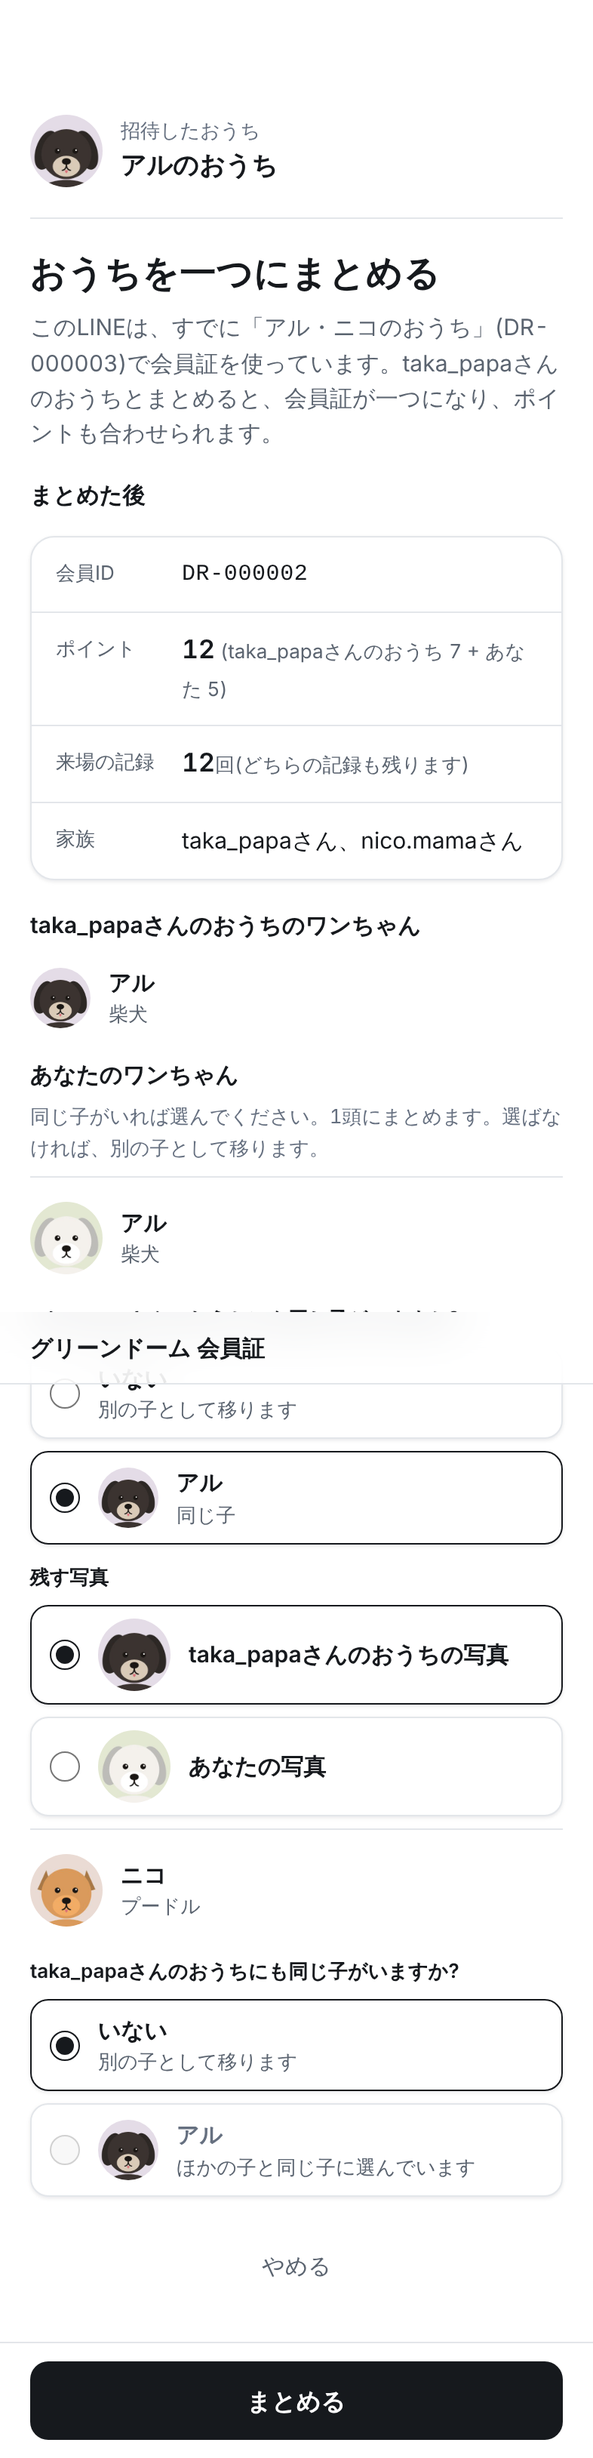
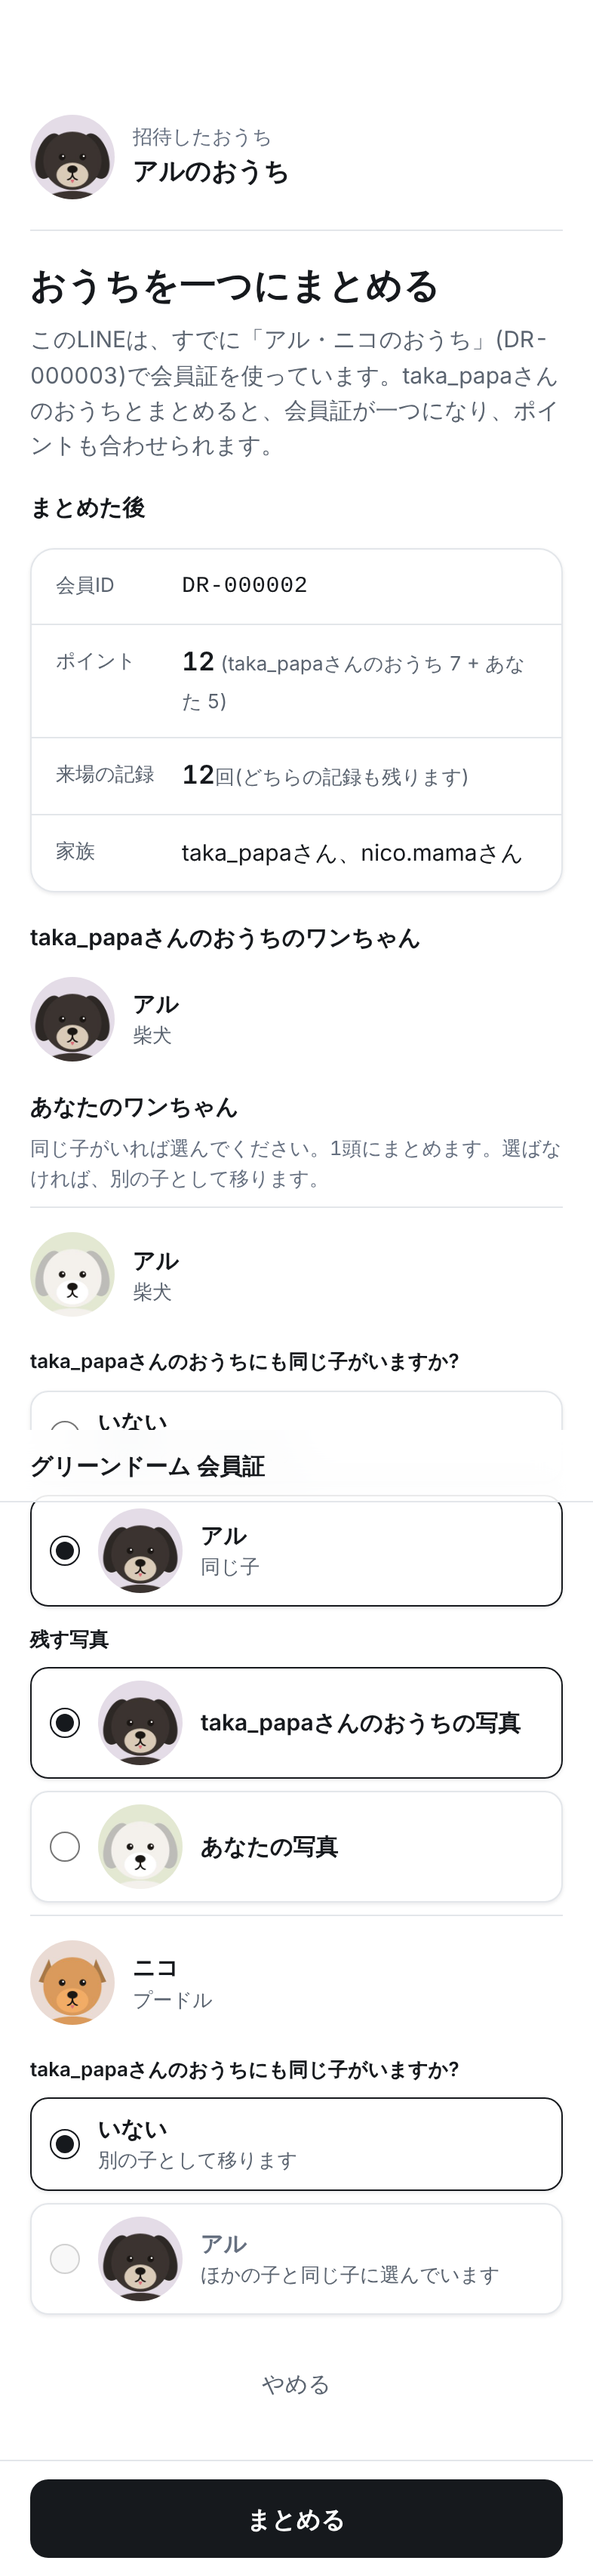
ポイントの数字の大きさを直し、写真のない子の絵と「+1ポイント」のハンコを整える。お客さん向けのマニュアルの写真を撮り直す
Claude-Session: https://claude.ai/code/session_01CeXocUtpkzvyuQwQbmjHXB

diff --git a/apps/liff/src/styles.css b/apps/liff/src/styles.css
@@ -238,7 +238,7 @@ a { color: var(--accent-text); }
 .av-ears path { fill: rgba(0, 0, 0, .14); }
 /* ワンちゃんの変更画面の上の大きな写真(幅いっぱい、4:3、角丸 16) */
 .photo-hero { display: flex; flex-direction: column; gap: var(--sp-3); }
-.dog-hero { display: block; width: 100%; max-width: none; height: auto; aspect-ratio: 4 / 3; object-fit: cover; border-radius: var(--radius-xl); background: var(--surface-sunk); }
+.dog-hero, .dog-hero-sk { display: block; width: 100%; max-width: none; height: auto; aspect-ratio: 4 / 3; object-fit: cover; border-radius: var(--radius-xl); background: var(--surface-sunk); }
 .photo-hero-acts { display: flex; flex-direction: column; align-items: center; gap: 6px; }
 .photo-hero-acts label.up { width: auto; min-height: 44px; padding: 0 var(--sp-5); font-size: var(--fs-14); cursor: pointer; }
 .photo-hero-acts label.up:has(+ input:focus-visible) { outline: 2px solid var(--focus-color); outline-offset: 2px; }
@@ -319,7 +319,7 @@ a { color: var(--accent-text); }
 .mc-id { font-size: var(--fs-13); color: var(--mc-sub); line-height: 1.3; }
 .mc-points { display: flex; align-items: baseline; gap: var(--sp-1); line-height: 1.1; white-space: nowrap; }
 .mc-points b { font-size: var(--fs-24); font-weight: var(--fw-strong); font-variant-numeric: tabular-nums; }
-.mc-points span { font-size: var(--fs-12); color: var(--mc-sub); }
+.mc-points > span { font-size: var(--fs-12); color: var(--mc-sub); }
 @media (hover: hover) {
   .mc-change:hover { background: color-mix(in srgb, var(--mc-text) 14%, transparent); }
 }
@@ -832,5 +832,5 @@ html.has-action-bar .toast-region { bottom: calc(var(--action-bar-h, 80px) + var
 /* チェックイン完了の「+1ポイント」の横に押すハンコ */
 .done-points { display: inline-flex; align-items: center; gap: 6px; }
 .done-pon { position: relative; display: inline-block; width: 22px; height: 22px; flex: none; }
-.done-pon .pon-mark { display: block; width: 22px; height: 22px; fill: var(--ink); transform: rotate(-8deg); }
+.done-pon .pon-mark { display: block; width: 22px; height: 22px; fill: var(--stamp-today); transform: rotate(-8deg); }
 .done-pon .paw-ink { inset: -2px; }

diff --git a/apps/liff/src/components/DogAvatar.tsx b/apps/liff/src/components/DogAvatar.tsx
@@ -27,8 +27,8 @@ export function DogPlaceholder({ name, breedName, size }: { name: string; breedN
       </clipPath>
       <circle cx="50" cy="50" r="50" fill={placeholderColor(breedName, name)} />
       <g clipPath={`url(#${clip})`} className="av-ears" aria-hidden="true">
-        <path d={EAR} />
-        <path d={EAR} transform="translate(100 0) scale(-1 1)" />
+        <path d={EAR} transform="translate(-7 2)" />
+        <path d={EAR} transform="translate(107 2) scale(-1 1)" />
       </g>
       <text x="50" y="50" dy=".36em" textAnchor="middle" fontSize="44" fontWeight="600">
         {initial}
@@ -56,7 +56,7 @@ export function DogAvatar({ name, breedName, url, previewUrl, size = 56 }: Props
 
 /**
  * ワンちゃんの変更画面の上に出す、大きな写真(幅いっぱい、縦横比 4:3、角丸 16)。
- * 写真がなければ、犬種の色の面に大きな頭文字と垂れ耳の絵。
+ * 写真がなければ、犬種の色の面に大きな頭文字。
  */
 export function DogHero({
   name,
@@ -86,10 +86,6 @@ export function DogHero({
   return (
     <svg className="dog-hero dog-hero-ph" viewBox="0 0 400 300" role="img" aria-label={`${name}(写真なし)`}>
       <rect width="400" height="300" fill={placeholderColor(breedName, name)} />
-      <g className="av-ears" aria-hidden="true" transform="translate(80 30) scale(2.4)">
-        <path d={EAR} />
-        <path d={EAR} transform="translate(100 0) scale(-1 1)" />
-      </g>
       <text x="200" y="150" dy=".36em" textAnchor="middle" fontSize="120" fontWeight="600">
         {nameInitial(name)}
       </text>

diff --git a/e2e/manual-shots.spec.ts b/e2e/manual-shots.spec.ts
@@ -189,6 +189,8 @@ test('お客さん: ワンちゃんの変更・おやすみ・プロフィール
   if (!(await more.evaluate((d: HTMLDetailsElement) => d.open))) await more.locator('summary').click();
   // 体重・相性・予防注射の年は任意。入れたところを写す(保存はしない)
   await page.getByLabel('体重').fill('6.4');
+  // 下に貼り付く保存の帯に隠れないよう、画面の中ほどまでスクロールしてから選ぶ
+  await more.getByRole('radio', { name: '得意' }).evaluate((el) => el.scrollIntoView({ block: 'center' }));
   await more.getByRole('radio', { name: '得意' }).check({ force: true });
   await page.getByLabel('狂犬病の予防注射').selectOption({ index: 1 });
   await scrollToTop(page.getByText('生まれた年月').first());

diff --git a/apps/liff/src/pages/skeletons.tsx b/apps/liff/src/pages/skeletons.tsx
@@ -227,7 +227,7 @@ export function DogFormSkeleton({ edit = true }: { edit?: boolean }) {
       {/* 変更画面は、上に大きな写真(4:3)と「写真を変える」 */}
       {edit ? (
         <div className="photo-hero">
-          <Skeleton className="dog-hero" height="auto" radius={16} />
+          <Skeleton className="dog-hero-sk" height="auto" radius={16} />
           <div className="photo-hero-acts">
             <Skeleton width={150} height={44} radius={12} />
           </div>

diff --git a/e2e/manual-helpers.ts b/e2e/manual-helpers.ts
@@ -185,6 +185,8 @@ export async function phoneContext(browser: Browser): Promise<BrowserContext> {
     userAgent:
       'Mozilla/5.0 (iPhone; CPU iPhone OS 18_0 like Mac OS X) AppleWebKit/605.1.15 (KHTML, like Gecko) Mobile/15E148 Safari/604.1 Line/14.0.0',
     locale: 'ja-JP',
+    // 写真が動きの途中にならないよう、動きを減らす設定で撮る
+    reducedMotion: 'reduce',
     timezoneId: 'Asia/Tokyo',
   });
   await useManualClock(context);

diff --git a/docs/design.md b/docs/design.md
@@ -105,7 +105,7 @@
 - チェックイン完了(L-06): 白いページ。上に小さく accent の点(ゆっくり明滅)と「チェックイン完了」「10月28日(水)」。その下に時計 40px tabular 600。時計の下に 3px の細いバーが左から右へ流れ続ける(スクリーンショットと見分けるため)。犬のアバター 72 と名前 20/600。「2頭 · DR-000001 · +1ポイント」を text-secondary の一行で。無料券を使った日は warning-50 の大きなブロックに「無料券を使用」(20/600)。下に数値ブロック(いまのポイント・使える無料券)。戻るのは ghost ボタン。
 - 登録の流れ(L-01〜L-04): 上に 3 本の細いバーで進み具合。見出し 20/600、説明 15。利用規約は行(タイトル + 右に「›」)で、開くと本文。写真は「写真を選ぶ」の副ボタン(破線にしない)。「この子を削除」は右上の ghost(danger の文字)。
 - 犬の一覧(L-09 ワンちゃん): 行(アバター 64、行の高さ 88、名前 17/600、犬種・サイズ、右に「›」)。「ワンちゃんを追加」は副ボタン。「おやすみ中のワンちゃん(1)」は一番下に 13px text-tertiary の小さな折りたたみ(ふだんは閉じる。開くと行は text-tertiary、アバター 40)。
-- 犬の変更(L-09 の変更画面): 一番上に大きな写真(幅いっぱい、縦横比 4:3、角丸 16。写真がなければ犬種の色の面に大きな頭文字と垂れ耳の絵)、その下に副ボタン「写真を変える」。見出しは名前 24/600、その下に 14px text-secondary で「一緒に来た回数 12回・最後に来た日 10月28日」(13章)。名前・性別・生まれた年月・体重・相性・予防注射の年。保存は主ボタンの帯(この画面だけはページの流れの中で下に貼り付く帯)。帯よりも下、スクロールしきった所に、見出しも区切り線もなく 13px text-tertiary の文字ボタン「この子の登録をおやすみする」(danger の色を付けない)。押したときの確認は「○○の登録をおやすみします。来場の記録はそのまま残り、いつでも戻せます。」ボタンは「おやすみする」「やめる」。
+- 犬の変更(L-09 の変更画面): 一番上に大きな写真(幅いっぱい、縦横比 4:3、角丸 16。写真がなければ犬種の色の面に大きな頭文字)、その下に副ボタン「写真を変える」。見出しは名前 24/600、その下に 14px text-secondary で「一緒に来た回数 12回・最後に来た日 10月28日」(13章)。名前・性別・生まれた年月・体重・相性・予防注射の年。保存は主ボタンの帯(この画面だけはページの流れの中で下に貼り付く帯)。帯よりも下、スクロールしきった所に、見出しも区切り線もなく 13px text-tertiary の文字ボタン「この子の登録をおやすみする」(danger の色を付けない)。押したときの確認は「○○の登録をおやすみします。来場の記録はそのまま残り、いつでも戻せます。」ボタンは「おやすみする」「やめる」。
 - 家族を招待(L-11): QR は白い枠(1px border、padding 16)の中。主ボタン「LINEで招待を送る」、副ボタン「QRコードを表示」。
 
 ## 6. 受付・管理画面
@@ -188,7 +188,7 @@
 - 前回この端末で見たときより増えた 1 個は、ほかの最後より 90ms 遅れて、大きめに押す(2.1 → 0.88 → 1.03 → 1、320ms)。押し付けた瞬間に、肉球のまわりに ink の 12% の円が 1 回広がって消え(インクのにじみ)、スタンプのパネルが 1px 沈んで戻る。対応する端末では `navigator.vibrate(12)`。
 - 同じ日に同じ数で開き直したときは「ポポポン」しない(1 日 1 回。端末に「日付:数」を覚える。覚えられない端末では毎回)。増えた 1 個があるときは押す。
 - 10 個たまったときは、骨を押したあとに「無料券と交換できます」が下から 8px ふわっと出る。
-- チェックイン完了の「+1ポイント」の横に、小さな肉球(22px)を 1 つ「ポン」と押す。時計と流れるバーは変えない。
+- チェックイン完了の「+1ポイント」の横に、小さな朱肉の色の肉球(22px)を 1 つ「ポン」と押す。時計と流れるバーは変えない。
 - 動きの間も、スタンプの `role="img"` と「ポイント 3 / 10」の読み上げは変わらない。
 - 下から出るシート: バネで下から出て、200ms で下へ消える。背景はふわっと暗くなる。掴みの印のあたりを下へ引っ張ると指について動き(上へはゴムのように少しだけ)、80px 以上引くか、40px 以上を速く払う(0.5px/ms 以上)と閉じ、それ以外はバネで戻る。掴みの部分の文字は選択できないようにする(引っ張りが文字の選択にならないように)。
 - トースト: 下から 16px バネで出て、下へ 12px 消える。
